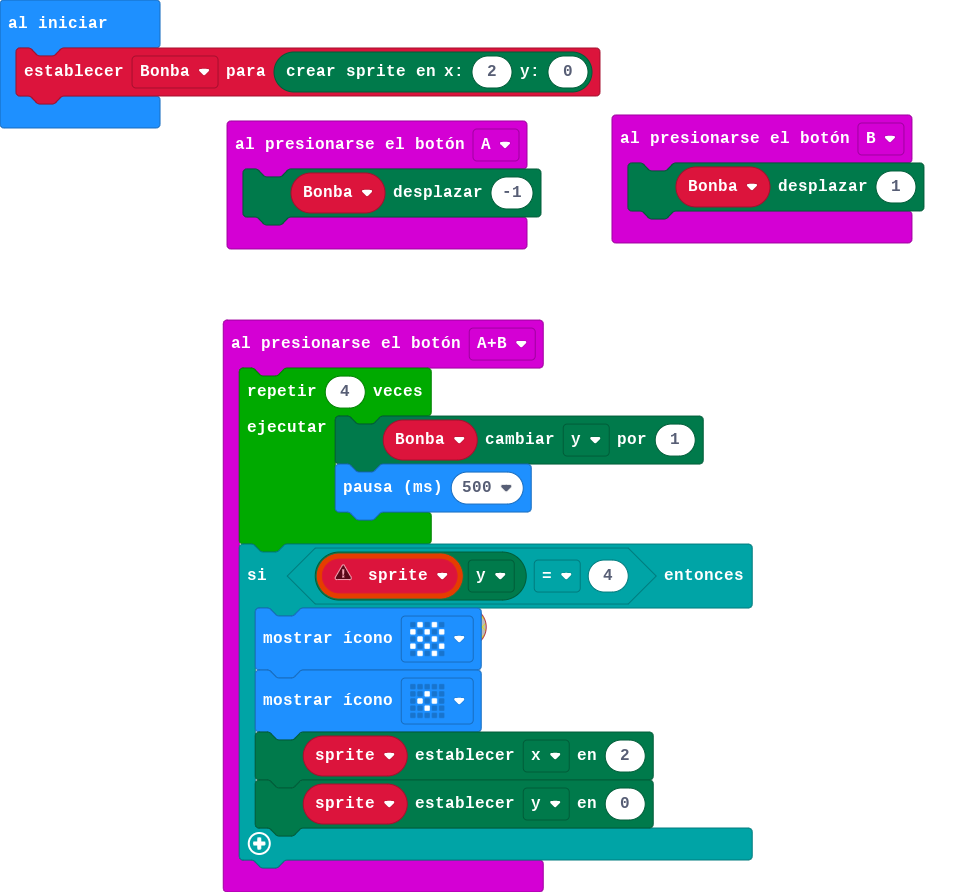
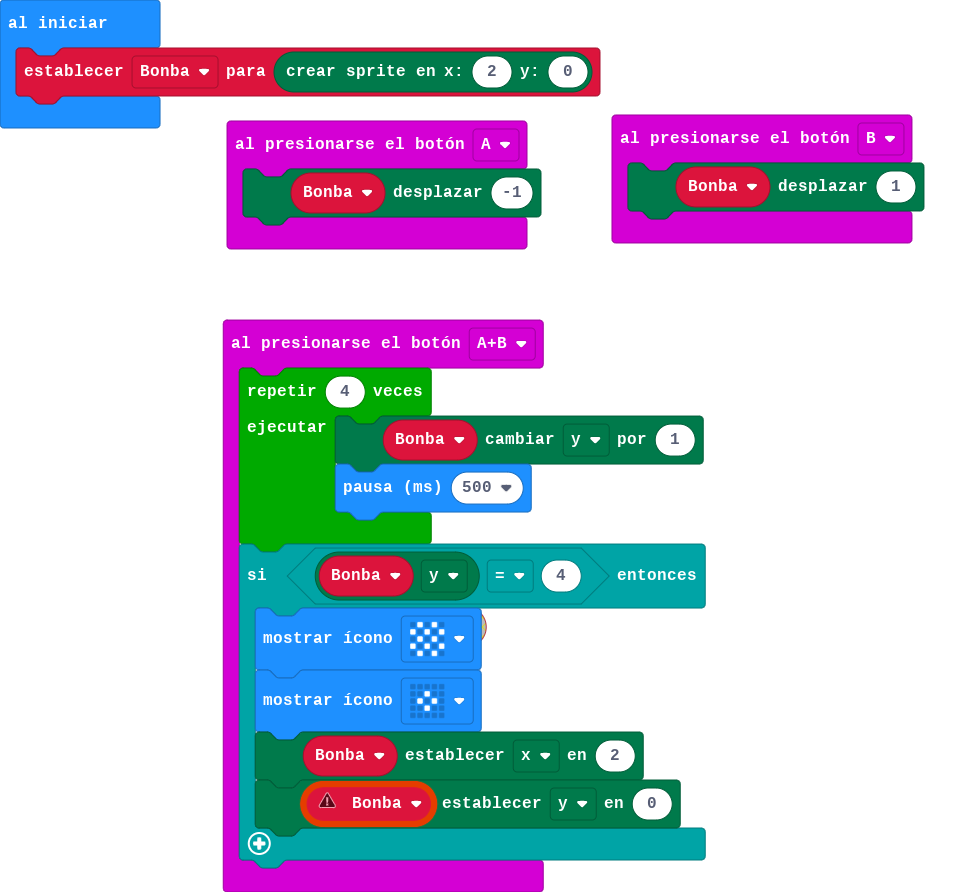
Actualizar main.blocks, main.ts

Changed region(s): [[0.3074, 0.8173, 0.7684, 0.9686], [0.3074, 0.6054, 0.7684, 0.6962]]

diff --git a/main.ts b/main.ts
@@ -2,16 +2,15 @@ input.onButtonPressed(Button.A, function () {
     Bonba.move(-1)
 })
 input.onButtonPressed(Button.AB, function () {
-    let sprite: game.LedSprite = null
     for (let index = 0; index < 4; index++) {
         Bonba.change(LedSpriteProperty.Y, 1)
         basic.pause(500)
     }
-    if (sprite.get(LedSpriteProperty.Y) == 4) {
+    if (Bonba.get(LedSpriteProperty.Y) == 4) {
         basic.showIcon(IconNames.Chessboard)
         basic.showIcon(IconNames.SmallDiamond)
-        sprite.set(LedSpriteProperty.X, 2)
-        sprite.set(LedSpriteProperty.Y, 0)
+        Bonba.set(LedSpriteProperty.X, 2)
+        Bonba.set(LedSpriteProperty.Y, 0)
     }
 })
 input.onButtonPressed(Button.B, function () {
